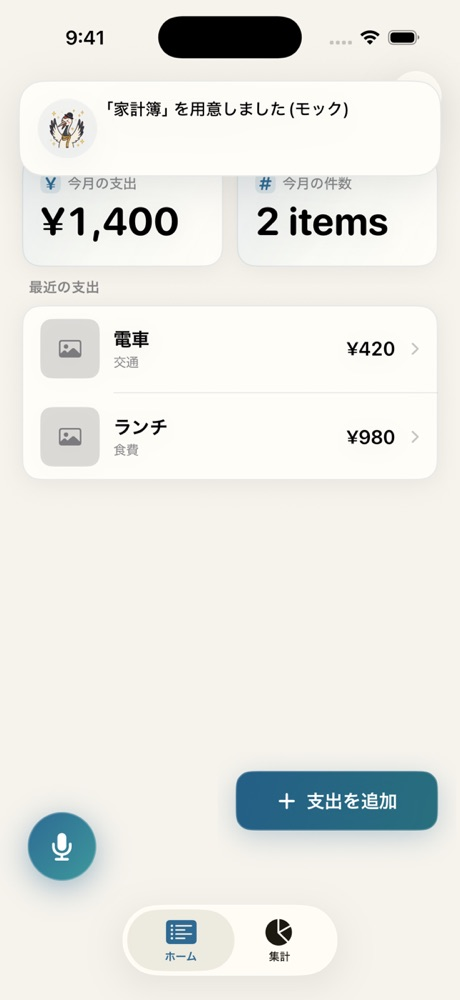
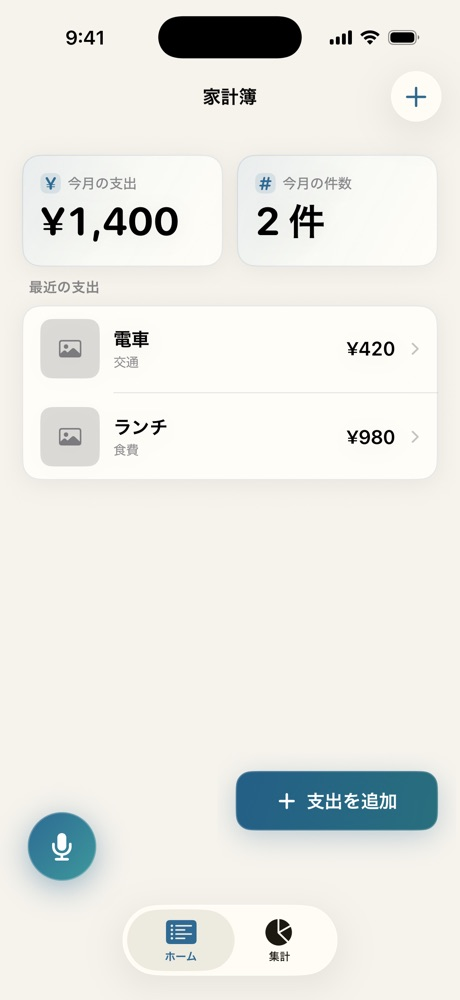
docs: README の使い方スクショを日本語の画面で撮り直し、改行を意味の切れ目にそろえる
- 初期画面・生成中・完成した家計簿の 3 枚を日本語 UI(モック・ライトモード)で撮り直す
- 撮り直しの TODO コメントを消す
- 段落内の長い文を <br> と段落分けで区切り、表のセル・箇条書きも 1〜2 行に収める

diff --git a/README.md b/README.md
@@ -6,7 +6,8 @@
 
 <h4>ひと声で、あなた仕立て。</h4>
 
-話すとアプリが変わる iOS アプリ。声とチャットで、自分専用のアプリをその場で作って直せます。
+話すとアプリが変わる iOS アプリ。<br>
+声とチャットで、自分専用のアプリをその場で作って直せます。
 
 </div>
 
@@ -17,23 +18,30 @@
 | 1. 話す | 2. 作る | 3. 使う |
 |:---:|:---:|:---:|
 | <img src="docs/images/readme/greeting.jpg" width="230" alt="初期画面。マイクのボタンと入力例"> | <img src="docs/images/readme/generating.jpg" width="230" alt="生成中。6 列グリッドに部品の枠が出てくる"> | <img src="docs/images/readme/completed.jpg" width="230" alt="できあがった家計簿。今月の支出・一覧・追加ボタン"> |
-| マイクを押して話す | 数秒で画面ができる | 入力・保存・集計がそのまま動く |
-
-<!-- TODO: 実機・日本語 UI・staging 接続で同じ 3 枚(初期画面 / 生成中 / 完成した家計簿)を撮り直して差し替える。縦長スクショを長辺 1000px の JPEG(1 枚 300KB 以下)に -->
+| マイクを押して話す | 数秒で画面ができる | 入力・保存・集計が<br>そのまま動く |
 
 ## 製品概要
 
 ### 課題設定
 
-Web サービスは、Lovable や v0 などを使えば、エンジニアでなくても言葉で作れるようになりました。
-一方でスマホのアプリは、Mac と開発環境の用意や、ストアへのリリースといった壁があり、今もエンジニアでない人には手が届きにくいままです。
+Web サービスは、Lovable や v0 などを使えば、<br>
+エンジニアでなくても言葉で作れるようになりました。
+
+一方でスマホのアプリには、Mac と開発環境の用意や、ストアへのリリースといった壁があります。<br>
+今も、エンジニアでない人には手が届きにくいままです。
 
 ### ソリューション
 
 話しかけるだけで、自分専用のアプリ(道具)がその場で手に入るようにしました。
-合うアプリを探して妥協する代わりに、話すだけで家計簿や筋トレ記録のようなアプリができ、「合計をもっと大きく」と話せば使いながら直せます。アプリが変わっても、それまでの記録は消えません。
 
-**仕組み**: AI はコードを書きません。画面の定義(DSL: 画面の中身を表す JSON)を作り、アプリに組み込み済みの SwiftUI の部品で描きます(Server-Driven UI)。だから、その場でアプリが変わります。
+合うアプリを探して妥協する代わりに、話すだけで家計簿や筋トレ記録のようなアプリができます。<br>
+「合計をもっと大きく」と話せば、使いながら直せます。<br>
+アプリが変わっても、それまでの記録は消えません。
+
+**仕組み**: AI はコードを書きません。<br>
+画面の定義(DSL: 画面の中身を表す JSON)を作り、<br>
+アプリに組み込み済みの SwiftUI の部品で描きます(Server-Driven UI)。<br>
+だから、その場でアプリが変わります。
 
 ```mermaid
 flowchart LR
@@ -49,12 +57,17 @@ flowchart LR
 
 **特長**
 
-- **AI が画面のレイアウトまで決める**: 6 列 × 12 行のマス目に、部品ごとに `A1:C3` のような書き方で置き場所を決める。重なりはサーバーが見つけて作り直させる。
-- **スマホの機能も、計算も作れる**: 57 種の部品から、カメラ・動画・通知・地図・ヘルスケアなどを AI が選んで置く。割り勘の精算や BMI のような計算も組み立てる。
-- **チャットで相談しながら育てる**: 足りない点だけ聞き返し、「見やすくして」のようなあいまいな依頼には案を出す。直したあとは「元に戻す」で戻せる。
-- **その場で変わり、壊れない**: 画面の定義はサーバー(Go)が厳しく検査し、iOS は知らない部品が届いても落ちない。音声認識は端末内で動くので、声は外に出ない。
+- **AI が画面のレイアウトまで決める**: 6 列 × 12 行のマス目に、部品ごとに `A1:C3` のような書き方で置き場所を決める。<br>
+  重なりはサーバーが見つけて作り直させる。
+- **スマホの機能も、計算も作れる**: 57 種の部品から、カメラ・動画・通知・地図・ヘルスケアなどを AI が選んで置く。<br>
+  割り勘の精算や BMI のような計算も組み立てる。
+- **チャットで相談しながら育てる**: 足りない点だけ聞き返し、「見やすくして」のようなあいまいな依頼には案を出す。<br>
+  直したあとは「元に戻す」で戻せる。
+- **その場で変わり、壊れない**: 画面の定義はサーバー(Go)が厳しく検査し、iOS は知らない部品が届いても落ちない。<br>
+  音声認識は端末内で動くので、声は外に出ない。
 
-**注力したこと: 品質を数字で測って直しました。** 同じ依頼のセットで作らせ、手で採点しています([audit2](docs/backend/ai-eval/2026-10-24-audit2.md) / [audit3](docs/backend/ai-eval/2026-10-24-audit3.md))。
+**注力したこと: 品質を数字で測って直しました。**<br>
+同じ依頼のセットで作らせ、手で採点しています([audit2](docs/backend/ai-eval/2026-10-24-audit2.md) / [audit3](docs/backend/ai-eval/2026-10-24-audit3.md))。
 
 | 指標 | 改善前 | 改善後 |
 |---|---:|---:|
@@ -62,29 +75,42 @@ flowchart LR
 | 頼んだ機能が全部入ったアプリ | 2/20 | 14/20 |
 | 中身と違うラベル | 7/20 | 0/20 |
 
-<sub>速さは新規作成 6.6 秒・修正 1.7 秒(中央値・[計測](docs/backend/ai-eval/2026-10-24.md))。</sub>
+<sub>速さは新規作成 6.6 秒・修正 1.7 秒<br>(中央値・[計測](docs/backend/ai-eval/2026-10-24.md))。</sub>
 
-- **1 つのスキーマを正典にした。** Go の検査・iOS の型・AI への部品一覧を同じスキーマから作り、ズレるとテストが落ちる。
-- **速さにこだわった。** 出力を軽くし、ストリーミングで画面の枠を約 2.4 秒で出す。
+- **1 つのスキーマを正典にした。**<br>
+  Go の検査・iOS の型・AI への部品一覧を同じスキーマから作り、ズレるとテストが落ちる。
+- **速さにこだわった。**<br>
+  出力を軽くし、ストリーミングで画面の枠を約 2.4 秒で出す。
 
 ### 使用技術
 
 #### 活用した技術
 
-- **API・データ**: Claude API(`claude-sonnet-5-5`)、Firebase Auth / Firestore、Cloud Run / Secret Manager / Workload Identity Federation
-- **フレームワーク・ライブラリ**: SwiftUI(iOS 17+)、Swift Charts、MapKit、HealthKit、WidgetKit、App Intents ほか / WhisperKit(端末内の音声認識)、Foundation Models(端末内の AI) / Go(外部ライブラリは JSON Schema 検証と JSON Patch の 2 つだけ) / GitHub Actions、gitleaks、xcodegen
+- **API・データ**: Claude API(`claude-sonnet-5-5`)、Firebase Auth / Firestore<br>
+  Cloud Run / Secret Manager / Workload Identity Federation
+- **フレームワーク・ライブラリ**:
+  - SwiftUI(iOS 17+)、Swift Charts、MapKit、HealthKit、WidgetKit、App Intents ほか
+  - WhisperKit(端末内の音声認識)、Foundation Models(端末内の AI)
+  - Go(外部ライブラリは JSON Schema 検証と JSON Patch の 2 つだけ)
+  - GitHub Actions、gitleaks、xcodegen
 - **デバイス**: iPhone(iOS 17+)、マイク・カメラ・位置情報・ヘルスケア
 
 全一覧は [活用した技術(全一覧)](docs/README-details.md#活用した技術全一覧)。
 
 #### 独自技術
 
-- **DSL v1 とマス目配置**: 画面を表す JSON の仕様と、`A1:C3` での配置([docs/dsl](docs/dsl/README.md))
-- **生成パイプライン**: 作る → 検査 → 作り直す。修正は差分(JSON Patch)だけ作る([backend/internal/ai](backend/internal/ai))
-- **部品一覧の自動生成**: AI に渡す部品の説明をスキーマから作る([catalog.go](backend/internal/ai/catalog.go))
-- **描画の仕組み**: 1 部品 = 1 ファイルで足せるレンダラー([MetamonRenderer](ios/Packages/MetamonRenderer))
-- **品質監査ツール**: 頼んだ機能の抜けや、中身と違うラベルを判定する([backend/cmd](backend/cmd))
-- **計測データの公開**: 生成の品質と速さの計測を、生の JSON 付きで公開([docs/backend/ai-eval](docs/backend/ai-eval))
+- **DSL v1 とマス目配置**: 画面を表す JSON の仕様と、`A1:C3` での配置<br>
+  ([docs/dsl](docs/dsl/README.md))
+- **生成パイプライン**: 作る → 検査 → 作り直す。<br>
+  修正は差分(JSON Patch)だけ作る([backend/internal/ai](backend/internal/ai))
+- **部品一覧の自動生成**: AI に渡す部品の説明をスキーマから作る<br>
+  ([catalog.go](backend/internal/ai/catalog.go))
+- **描画の仕組み**: 1 部品 = 1 ファイルで足せるレンダラー<br>
+  ([MetamonRenderer](ios/Packages/MetamonRenderer))
+- **品質監査ツール**: 頼んだ機能の抜けや、中身と違うラベルを判定する<br>
+  ([backend/cmd](backend/cmd))
+- **計測データの公開**: 生成の品質と速さの計測を、生の JSON 付きで公開<br>
+  ([docs/backend/ai-eval](docs/backend/ai-eval))
 
 場所と代表 PR の一覧は [独自技術(場所と代表 PR)](docs/README-details.md#独自技術場所と代表-pr)。
 
@@ -98,12 +124,15 @@ flowchart LR
 
 <!-- TODO: TestFlight など配布リンクがあればここに追記する(無ければこのコメントを消す) -->
 
-シミュレータなら API キー無しで試せます。`METAMON_MOCK=1` を付けて起動してください(手順は [セットアップ](docs/README-details.md#セットアップ))。
+シミュレータなら API キー無しで試せます。<br>
+`METAMON_MOCK=1` を付けて起動してください(手順は [セットアップ](docs/README-details.md#セットアップ))。
+
 話す内容の例は [話してみてほしい内容](docs/README-details.md#話してみてほしい内容) にあります。
 
 ## もっと詳しく
 
-- [詳細版 README](docs/README-details.md): 数字の根拠・部品一覧・アーキテクチャ・セットアップ・リポジトリ構成
+- [詳細版 README](docs/README-details.md):<br>
+  数字の根拠・部品一覧・アーキテクチャ・セットアップ・リポジトリ構成
 - [決定事項(正典)](docs/00_decisions.md)
 - [DSL の仕様・部品一覧](docs/dsl/README.md)
 - 設計: [iOS](docs/ios/architecture.md) / [backend](docs/backend/architecture.md)
